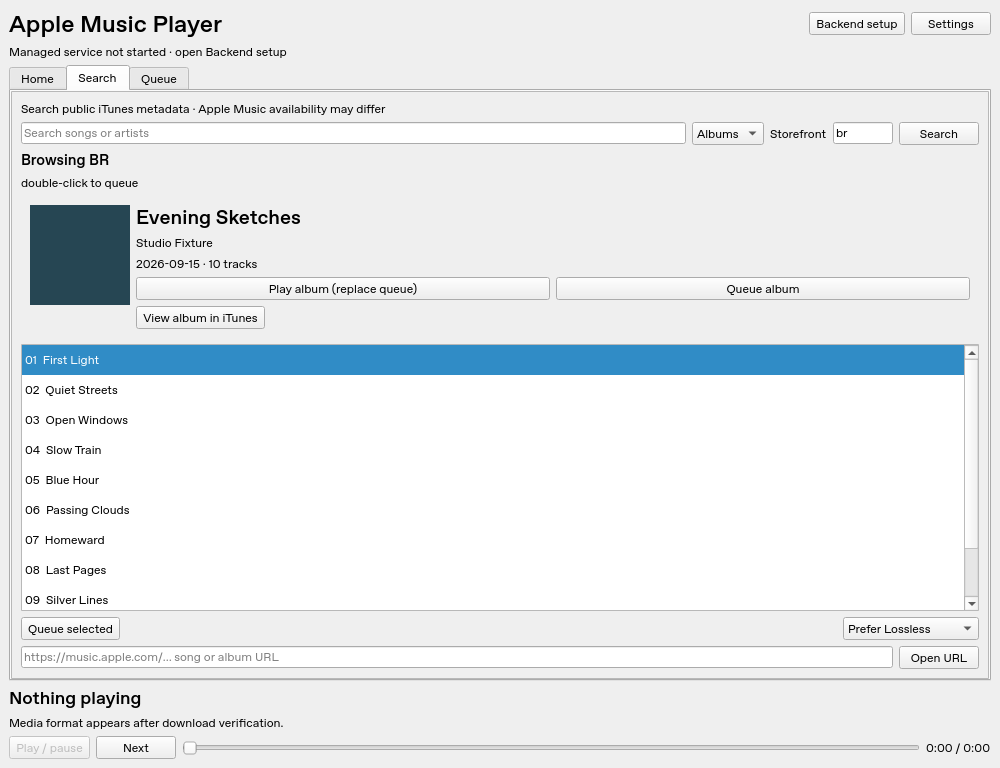
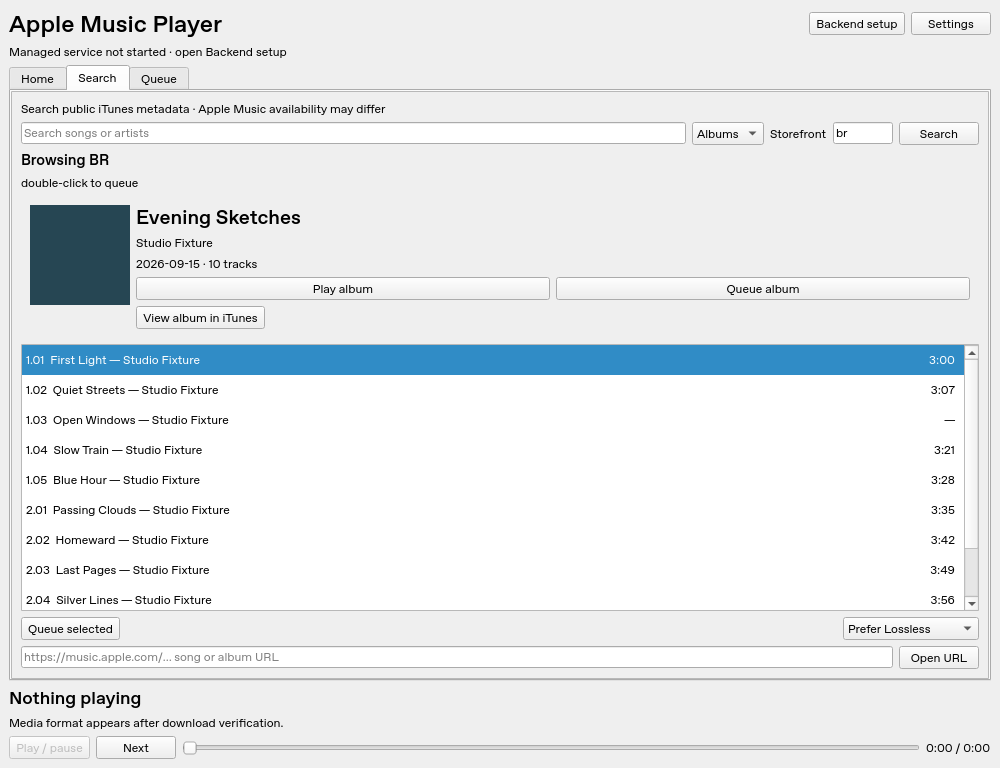
Show text-only album tracks with album artist and right-aligned duration

diff --git a/tests/test_browsing.py b/tests/test_browsing.py
@@ -547,7 +547,7 @@ def test_album_header_compact_rows_badge_and_search_transition(app, tmp_path, mo
         assert window.play_album_button.isEnabled() and window.all_button.isEnabled()
         for index in range(10):
             item = window.result_list.item(index)
-            assert item.text() == f"{index + 1:02d}  Track {index + 1}"
+            assert item.text() == f"{index + 1:02d}  Track {index + 1} — Fixture artist"
             assert item.icon().isNull()
             assert window.result_list.visualItemRect(item).height() <= 32
         window.result_list.setCurrentRow(5)
@@ -587,3 +587,67 @@ def test_album_header_without_artwork_does_not_request_badge(app):
         # destroyed while QApplication is alive, not during interpreter shutdown.
         header.deleteLater()
         QCoreApplication.sendPostedEvents(None, QEvent.DeferredDelete)
+
+
+def test_text_rows_duration_column_and_short_play_label(app, tmp_path, monkeypatch):
+    from PySide6.QtCore import Qt
+
+    from apple_music_player.browsing import TrackRowDelegate
+
+    window = Window(tmp_path / "cache")
+    window.startup_attempted = True
+    monkeypatch.setattr(window.controller, "tick", lambda: None)
+    rows = [
+        dict(
+            wrapperType="collection",
+            collectionId=201,
+            artistName="Album artist",
+            collectionName="Fixture Album",
+        ),
+        dict(
+            kind="song",
+            collectionId=201,
+            trackId=1,
+            artistName="Performer",
+            trackName="First",
+            discNumber=1,
+            trackNumber=1,
+            trackTimeMillis=125000,
+        ),
+        dict(
+            kind="song",
+            collectionId=201,
+            trackId=2,
+            artistName="Performer",
+            trackName="Second",
+            discNumber=2,
+            trackNumber=1,
+        ),
+    ]
+    monkeypatch.setattr(window.catalog, "request", lambda *a, **k: rows)
+    window.show()
+    try:
+        window.open_album(Album("br", "201", "Fixture Album"))
+        wait_until(
+            lambda: (app.processEvents(), window.tick(), window.play_album_button.isEnabled())[2]
+        )
+        assert window.play_album_button.text() == "Play album"
+        assert "Replace" in window.play_album_button.toolTip()
+        assert window.result_list.item(0).text() == "1.01  First — Album artist"
+        assert window.result_list.item(1).text() == "2.01  Second — Album artist"
+        assert window.result_list.item(0).data(TrackRowDelegate.duration_role) == "2:05"
+        assert window.result_list.item(1).data(TrackRowDelegate.duration_role) == "—"
+        delegate = window.result_list.itemDelegate()
+        assert delegate.duration_alignment & Qt.AlignRight
+        for index in range(2):
+            item = window.result_list.item(index)
+            assert item.icon().isNull()
+            rect = window.result_list.visualItemRect(item)
+            duration_rect = delegate.duration_rect(rect, window.result_list.fontMetrics())
+            assert duration_rect.left() > rect.center().x()
+            assert 0 <= rect.right() - duration_rect.right() <= 12
+        window.resize(1000, 480)
+        app.processEvents()
+        assert window.height() == 480
+    finally:
+        window.close()

diff --git a/src/apple_music_player/app.py b/src/apple_music_player/app.py
@@ -30,7 +30,7 @@ from PySide6.QtWidgets import (
 )
 
 from .artwork import BADGE_URL, Artwork, allowed_url
-from .browsing import AlbumCard, AlbumHeader, Shelf, placeholder, store_link
+from .browsing import AlbumCard, AlbumHeader, Shelf, TrackRowDelegate, placeholder, store_link
 from .cache import Cache
 from .catalog import Catalog, CatalogDeferred, recent_releases
 from .controller import Controller
@@ -214,6 +214,7 @@ class Window(QMainWindow):
         self.album_header = AlbumHeader(self.artwork)
         layout.addWidget(self.album_header)
         self.result_list = QListWidget()
+        self.result_list.setItemDelegate(TrackRowDelegate(self.result_list))
         self.result_list.itemDoubleClicked.connect(lambda _: self.add_selected())
         self.result_list.setIconSize(QSize(100, 100))
         self.result_list.currentRowChanged.connect(self.show_selected_album)
@@ -225,8 +226,9 @@ class Window(QMainWindow):
         result_buttons = self.result_buttons = QHBoxLayout()
         self.browse_button = self.button(result_buttons, "Browse album", self.browse_album)
         self.selected_button = self.button(result_buttons, "Queue selected", self.add_selected)
-        self.play_album_button = self.button(
-            result_buttons, "Play album (replace queue)", self.play_album
+        self.play_album_button = self.button(result_buttons, "Play album", self.play_album)
+        self.play_album_button.setToolTip(
+            "Replace the current queue and play this album from the first track."
         )
         self.play_album_button.setEnabled(False)
         self.all_button = self.button(result_buttons, "Queue all results", self.add_all)
@@ -776,15 +778,17 @@ class Window(QMainWindow):
                         self.show_album_header()
                         self.result_list.clear()
                         if self.album_header.album:
+                            multiple_discs = any(track.disc_number > 1 for track in self.results)
                             self.result_list.addItems(
-                                [
-                                    f"{index + 1:02d}  "
-                                    + track.title.removesuffix(" — " + track.artist)
-                                    for index, track in enumerate(self.results)
-                                ]
+                                [track.album_row_title(multiple_discs) for track in self.results]
                             )
-                            for index in range(self.result_list.count()):
-                                self.result_list.item(index).setSizeHint(QSize(0, 30))
+                            for index, track in enumerate(self.results):
+                                item = self.result_list.item(index)
+                                item.setData(TrackRowDelegate.duration_role, track.duration_label)
+                                item.setData(
+                                    Qt.AccessibleDescriptionRole, "Duration " + track.duration_label
+                                )
+                                item.setSizeHint(QSize(0, 30))
                         else:
                             self.result_list.addItems([track.title for track in self.results])
                             for index in range(self.result_list.count()):

diff --git a/src/apple_music_player/browsing.py b/src/apple_music_player/browsing.py
@@ -2,14 +2,18 @@
 
 from urllib.parse import urlsplit
 
-from PySide6.QtCore import QSize, Qt, QUrl
-from PySide6.QtGui import QColor, QDesktopServices, QIcon, QPixmap
+from PySide6.QtCore import QRect, QSize, Qt, QUrl
+from PySide6.QtGui import QColor, QDesktopServices, QIcon, QPalette, QPixmap
 from PySide6.QtWidgets import (
+    QApplication,
     QFrame,
     QHBoxLayout,
     QLabel,
     QPushButton,
     QScrollArea,
+    QStyle,
+    QStyledItemDelegate,
+    QStyleOptionViewItem,
     QVBoxLayout,
     QWidget,
 )
@@ -37,6 +41,43 @@ def placeholder():
     pixmap = QPixmap(100, 100)
     pixmap.fill(QColor("#264653"))
     return QIcon(pixmap)
+
+
+class TrackRowDelegate(QStyledItemDelegate):
+    """Native selection with a separate right-aligned text duration column."""
+
+    duration_role = Qt.UserRole + 1
+    duration_alignment = Qt.AlignRight | Qt.AlignVCenter
+
+    @staticmethod
+    def duration_rect(rect, metrics):
+        width = metrics.horizontalAdvance("00:00:00") + 12
+        return QRect(rect.right() - width - 8, rect.top(), width, rect.height())
+
+    def paint(self, painter, option, index):
+        duration = index.data(self.duration_role)
+        if duration is None:
+            super().paint(painter, option, index)
+            return
+        opt = QStyleOptionViewItem(option)
+        self.initStyleOption(opt, index)
+        text, opt.text = opt.text, ""
+        style = opt.widget.style() if opt.widget else QApplication.style()
+        style.drawControl(QStyle.CE_ItemViewItem, opt, painter, opt.widget)
+        right = self.duration_rect(opt.rect, opt.fontMetrics)
+        left = opt.rect.adjusted(4, 0, -(right.width() + 24), 0)
+        painter.save()
+        painter.setClipRect(opt.rect)
+        painter.setFont(opt.font)
+        role = QPalette.HighlightedText if opt.state & QStyle.State_Selected else QPalette.Text
+        painter.setPen(opt.palette.color(role))
+        painter.drawText(right, self.duration_alignment, duration)
+        painter.drawText(
+            left,
+            Qt.AlignLeft | Qt.AlignVCenter,
+            opt.fontMetrics.elidedText(text, Qt.ElideRight, max(0, left.width())),
+        )
+        painter.restore()
 
 
 class AlbumCard(QFrame):

diff --git a/tests/test_album_search.py b/tests/test_album_search.py
@@ -338,3 +338,50 @@ def test_play_album_ui_loading_empty_error_and_repeat(app, tmp_path, monkeypatch
         assert [e.track.id for e in window.controller.queue] == ["12346", "12347"]
     finally:
         window.close()
+
+
+def test_album_artist_duration_and_multidisc_rows(monkeypatch):
+    catalog = Catalog()
+    collection = dict(ALBUM, artistName="Various Artists", artistId=99)
+    rows = [
+        collection,
+        dict(
+            SONGS[0],
+            artistName="Guest A",
+            artistId=10,
+            trackId=1,
+            trackName="Finale",
+            trackNumber=1,
+            discNumber=2,
+            trackTimeMillis=3661000,
+        ),
+        dict(
+            SONGS[1],
+            artistName="Guest B",
+            artistId=11,
+            trackId=2,
+            trackName="Opening",
+            trackNumber=1,
+            discNumber=1,
+            trackTimeMillis=209900,
+        ),
+    ]
+    monkeypatch.setattr(catalog, "request", lambda *a, **k: rows)
+    tracks = catalog.album("12345", "br")
+    assert [t.id for t in tracks] == ["2", "1"]
+    assert tracks[0].album_row_title(True) == "1.01  Opening — Various Artists"
+    assert tracks[1].album_row_title(True) == "2.01  Finale — Various Artists"
+    assert [t.duration_label for t in tracks] == ["3:29", "1:01:01"]
+    assert tracks[0].artist == "Guest B" and tracks[0].album.artist == "Various Artists"
+    assert tracks[0].album.artist_id == "99"
+    collection.pop("artistId")
+    assert catalog.album("12345", "br")[0].album.artist_id == ""
+    rows.remove(collection)
+    assert catalog.album("12345", "br")[0].album_row_title(True) == "1.01  Opening — Guest B"
+
+
+@pytest.mark.parametrize("duration", [None, "unknown", "123000", -10, 0, True, 2.5])
+def test_missing_or_invalid_duration_is_not_invented(duration):
+    track = Catalog().tracks([dict(SONGS[0], trackTimeMillis=duration)], "br")[0]
+    assert track.duration_label == "—"
+    assert track.album_row_title() == "—  Winter — Daughter"

diff --git a/src/apple_music_player/model.py b/src/apple_music_player/model.py
@@ -37,6 +37,30 @@ class Track:
     release_date: str = ""
     store_url: str = ""
 
+    track_name: str = ""
+    album_artist: str = ""
+    album_artist_id: str = ""
+    track_number: int = 0
+    disc_number: int = 0
+    duration_ms: int = 0
+
+    @property
+    def duration_label(self):
+        if not self.duration_ms:
+            return "—"
+        seconds = self.duration_ms // 1000
+        if seconds >= 3600:
+            return f"{seconds // 3600}:{seconds // 60 % 60:02}:{seconds % 60:02}"
+        return f"{seconds // 60}:{seconds % 60:02}"
+
+    def album_row_title(self, multiple_discs=False):
+        number = f"{self.track_number:02}" if self.track_number else "—"
+        if multiple_discs:
+            number = f"{self.disc_number or '—'}.{number}"
+        title = self.track_name or self.title.removesuffix(" — " + self.artist)
+        artist = self.album_artist or self.artist
+        return f"{number}  {title}" + (f" — {artist}" if artist else "")
+
     @property
     def album(self):
         if not self.album_id:
@@ -44,9 +68,12 @@ class Track:
         return Album(
             self.country,
             self.album_id,
-            f"{self.album_title or 'Album ' + self.album_id} — {self.artist}",
-            self.artist,
-            self.artist_id,
+            f"{self.album_title or 'Album ' + self.album_id} — {self.album_artist or self.artist}",
+            self.album_artist or self.artist,
+            self.album_artist_id
+            or (
+                self.artist_id if not self.album_artist or self.album_artist == self.artist else ""
+            ),
             self.album_title,
             self.artwork_url,
             self.release_date,

diff --git a/src/apple_music_player/catalog.py b/src/apple_music_player/catalog.py
@@ -84,10 +84,20 @@ class Catalog:
                     str(row["trackId"]),
                     title[:300],
                     str(row.get("collectionId", "")),
+                    track_name=str(row.get("trackName", "Untitled"))[:300],
+                    album_artist=str(row.get("_album_artist") or "")[:300],
+                    album_artist_id=str(row.get("_album_artist_id") or "")[:30],
+                    track_number=self.positive_number(row.get("trackNumber")),
+                    disc_number=self.positive_number(row.get("discNumber")),
+                    duration_ms=self.positive_number(row.get("trackTimeMillis")),
                     **self.metadata(row),
                 )
             )
         return result
+
+    @staticmethod
+    def positive_number(value):
+        return value if type(value) is int and value > 0 else 0
 
     def albums(self, data, country):
         return [
@@ -156,7 +166,16 @@ class Catalog:
             {},
         )
         songs = [
-            {**collection, **row}
+            {
+                **collection,
+                **row,
+                "_album_artist": collection.get("artistName", "") or row.get("artistName", ""),
+                "_album_artist_id": (
+                    collection.get("artistId", "")
+                    if collection.get("artistName")
+                    else row.get("artistId", "")
+                ),
+            }
             for row in rows
             if isinstance(row, dict)
             and row.get("kind") == "song"

diff --git a/docs/browsing.md b/docs/browsing.md
@@ -22,12 +22,14 @@ With both Home shelves populated, the old layout forced a 1019px minimum window 
 
 ## Album playback and search coverage
 
-After opening an album, **Play album (replace queue)** stops current playback, cancels an active download/prefetch, replaces the queue and begins with the first track after cancellation completes. Repeated clicks keep the latest queue intent without duplicate jobs. **Queue album** still appends/deduplicates without restarting playback. Empty, loading and failed album requests cannot trigger Play. Explicit disc/track numbers define order; if numbering is incomplete, the returned API array order is preserved. Only tracks belonging to the requested collection are accepted. Cache files are not deleted by queue replacement.
+After opening an album, **Play album** stops current playback, cancels an active download/prefetch, replaces the queue and begins with the first track after cancellation completes. Repeated clicks keep the latest queue intent without duplicate jobs. **Queue album** still appends/deduplicates without restarting playback. Empty, loading and failed album requests cannot trigger Play. Explicit disc/track numbers define order; if numbering is incomplete, the returned API array order is preserved. Only tracks belonging to the requested collection are accepted. Cache files are not deleted by queue replacement.
 
 Album search now requests the documented maximum of 200 results instead of 50; song searches remain at 50. The [documented API](https://performance-partners.apple.com/search-api) provides a limit but no documented search pagination parameter. There is no local title/artist relevance filter: the entered query is sent as `term`, with `media=music`, `entity=album` and the selected storefront. Returned collection records are validated as albums; this is not a guarantee of full subscription-catalog coverage or relevance.
 
 The reported `faye webster Atlanta Millionaires Club` omission is not yet reproduced against a live iTunes search response. Apple's [BR album page](https://music.apple.com/br/album/atlanta-millionaires-club/1452886606) confirms the album and provides its direct URL, which can be pasted into Open URL to request collection lookup independently of search ranking. The larger limit is a bounded improvement, not a proven fix for that specific omission. Synthetic regression fixtures exercise the exact query and URL.
 
-The album layout now follows the agreed text requirements: one cover/title/artist/release-date/track-count header, adjacent Play album and Queue album buttons, and compact numbered track rows without repeated artwork or artist metadata. Changing track selection no longer creates a second album pane. Empty playback/error labels stop consuming vertical space; active media/output/fallback labels remain visible. The single shared badge and actual album store links are preserved.
+The album layout now follows the agreed text requirements: one cover/title/artist/release-date/track-count header, adjacent Play album and Queue album buttons, and compact text-only rows containing track number, title — album artist, and a right-aligned duration. Changing track selection no longer creates a second album pane. Empty playback/error labels stop consuming vertical space; active media/output/fallback labels remain visible. The single shared badge and actual album store links are preserved.
 
 The original three Library screenshots failed local transfer, so exact comparison to their pixels remains unverified; this is a text-specified redesign, not a claim of visual fidelity. `album-compact.png` and `album-compact-small.png` show inspected synthetic fixtures at normal size and 150% scaling. Small viewports scroll the album content while keeping transport outside it. No user screenshot or account data is published.
+
+Album row durations come from `trackTimeMillis`, formatted as m:ss (or h:mm:ss for long tracks). Missing/invalid durations show “—”. Disc/track numbers come from catalog metadata; multi-disc albums show a disc prefix, and missing numbers show “—” rather than a fabricated track number. The collection artist is used for album rows and the header, with the track artist as fallback when collection metadata is absent; compilation performers remain separately represented in track metadata. The Play album tooltip explains replacement behavior while the visible label stays short.

diff --git a/README.md b/README.md
@@ -20,7 +20,7 @@ ruff format --check src tests
 **Requirements:** `mpv`, `ffprobe` (normally packaged with ffmpeg), and Qt Wayland libraries. Tests also use `ffmpeg` to generate synthetic audio. Backend setup lists missing tools; it does not install OS packages. Managed amdl v0.1.4 handles normal audio finalization natively; GPAC/MP4Box is not required.
 
 1. Open **Settings**, select your cache size. For Dolby, set your HDMI device from `mpv --audio-device=help`. The validated machine used `alsa/hdmi:CARD=HDMI,DEV=3`; your device may differ.
-2. Search defaults to **Albums** with **BR** for new configurations. Choose **Songs** or **Albums**, enter a query and your two-letter storefront, then Search. For example, search Albums for `daughter if you leave`, select **If You Leave — Daughter** if available, and **Open album** (or double-click) to see its tracks. **Play album (replace queue)** starts from the first track and replaces current playback/queue; **Queue album** appends those songs. Album detail shows one cover/header and compact numbered tracks. Song results use **Queue selected**; **Browse album** opens the selected song's album. An album URL also opens its track list. Availability and ranking depend on the public catalog/storefront.
+2. Search defaults to **Albums** with **BR** for new configurations. Choose **Songs** or **Albums**, enter a query and your two-letter storefront, then Search. For example, search Albums for `daughter if you leave`, select **If You Leave — Daughter** if available, and **Open album** (or double-click) to see its tracks. **Play album** starts from the first track and replaces current playback/queue; **Queue album** appends those songs. Album detail shows one cover/header and compact numbered tracks. Song results use **Queue selected**; **Browse album** opens the selected song's album. An album URL also opens its track list. Availability and ranking depend on the public catalog/storefront.
 3. Choose **Prefer Lossless** or **Prefer Dolby Atmos** before queueing. Playback starts after a full download; only the next track is prefetched. Use pause, seek, Next, Remove, Cancel download and Retry. Device changes apply to the next playback; Retry restarts failed playback.
 
 **Media format is measured, not assumed.** Now playing shows Lossless (ALAC/FLAC), Lossy (AAC/AC-3), Dolby Digital Plus / Atmos unverified, or Dolby Atmos when ffprobe reports a JOC profile. Codec, sample rate, channels and available bit depth are shown. Requested-quality fallbacks are conspicuous. The separate output label reports mpv's PCM or compressed passthrough state, never receiver-confirmed Atmos. Dolby playback requires an explicit device and stops if mpv reports PCM fallback. Confirm Atmos on your soundbar. No app volume control is provided.
